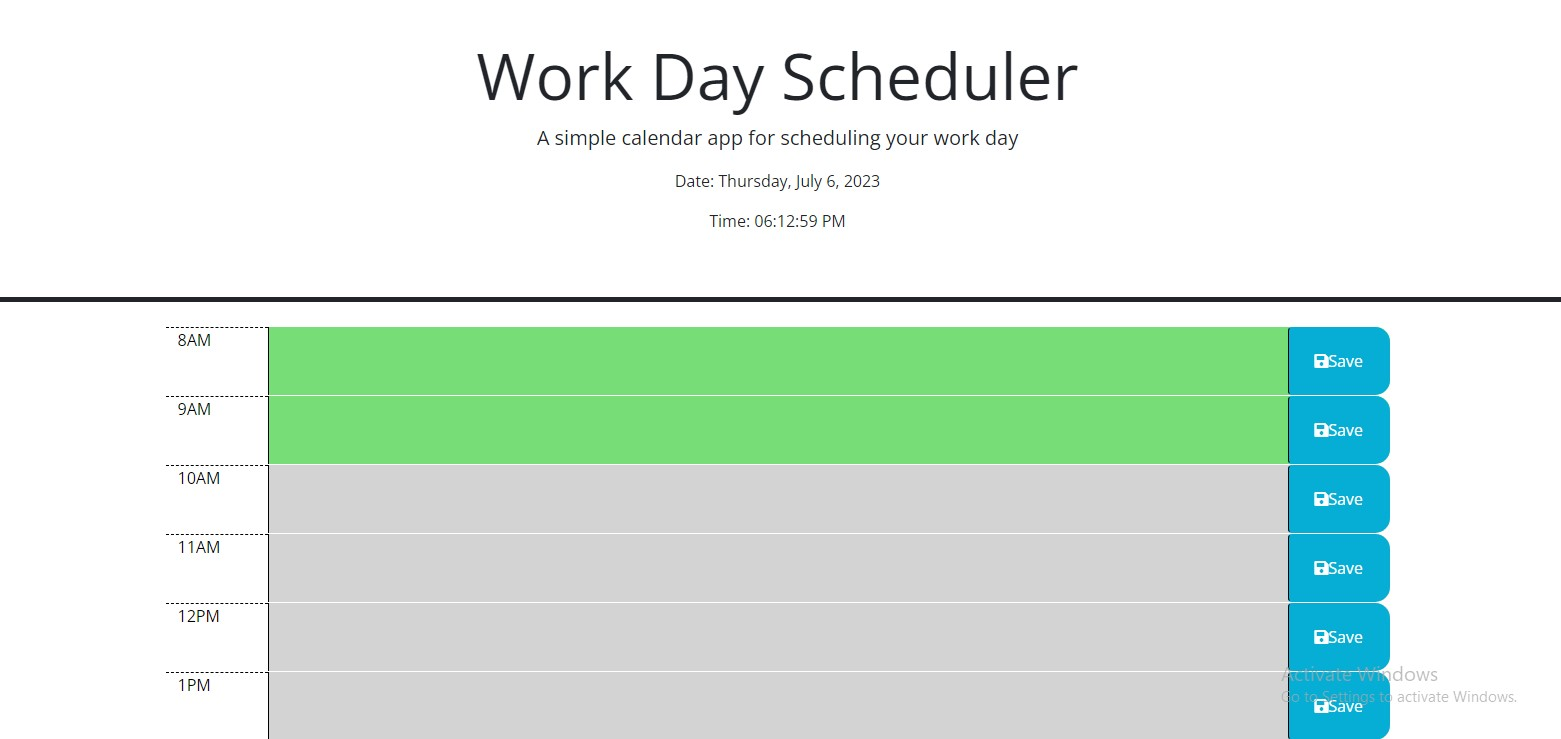
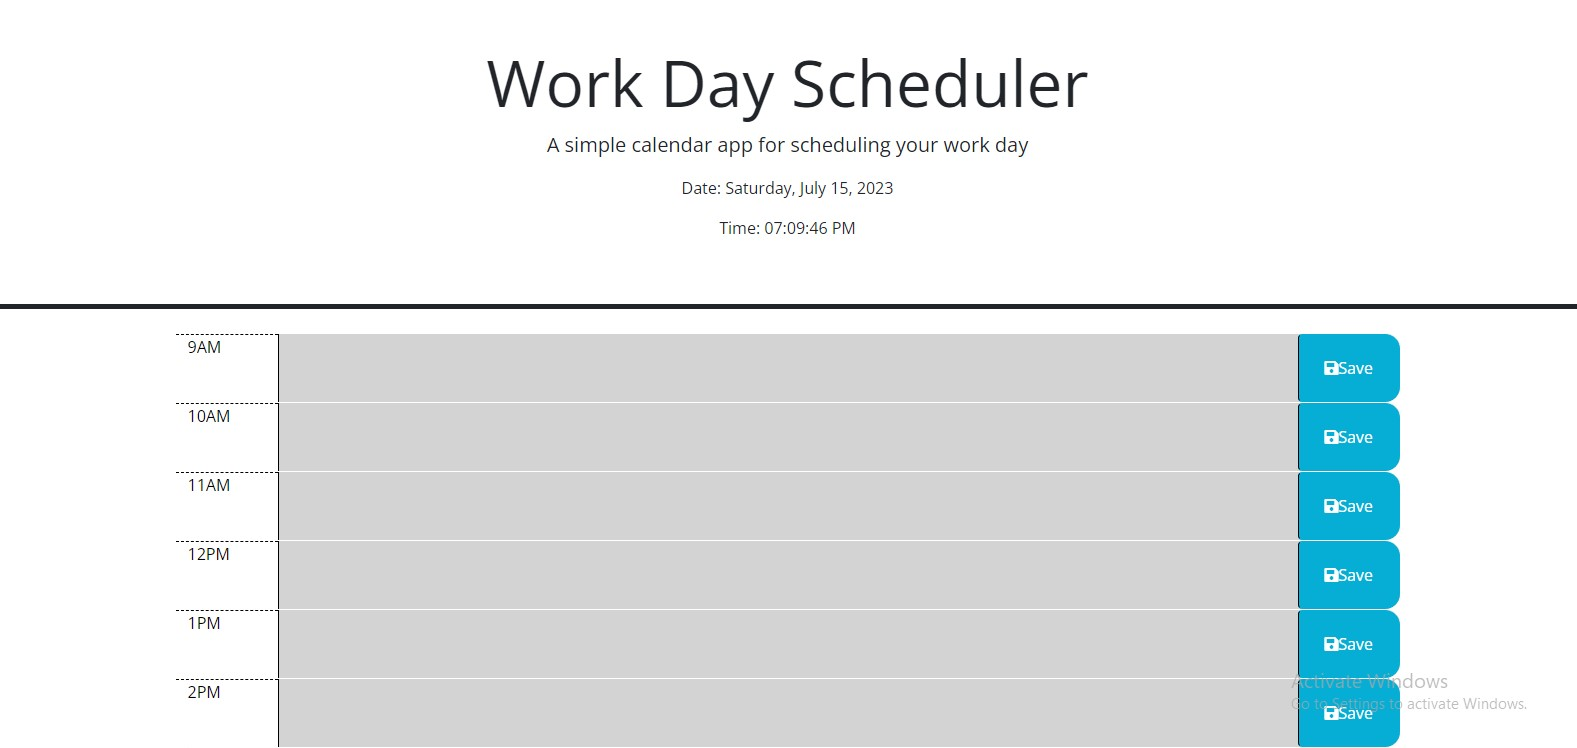
fixed bugged with my if statements

Changed region(s): [[0.0, 0.4046, 1.0, 1.0], [0.3075, 0.0622, 0.7072, 0.3112]]

diff --git a/assets/js/script.js b/assets/js/script.js
@@ -17,9 +17,9 @@ function hourTracker() {
     console.log("currentHour " + currentHour);
     console.log("time-block " + schedulehHour);
 
-    if (schedulehHour > currentHour) {
+    if (+schedulehHour > +currentHour) {
       $(this).addClass("future");
-    } else if (schedulehHour < currentHour) {
+    } else if (+schedulehHour < +currentHour) {
       $(this).addClass("past");
     } else {
       $(this).addClass("present");
